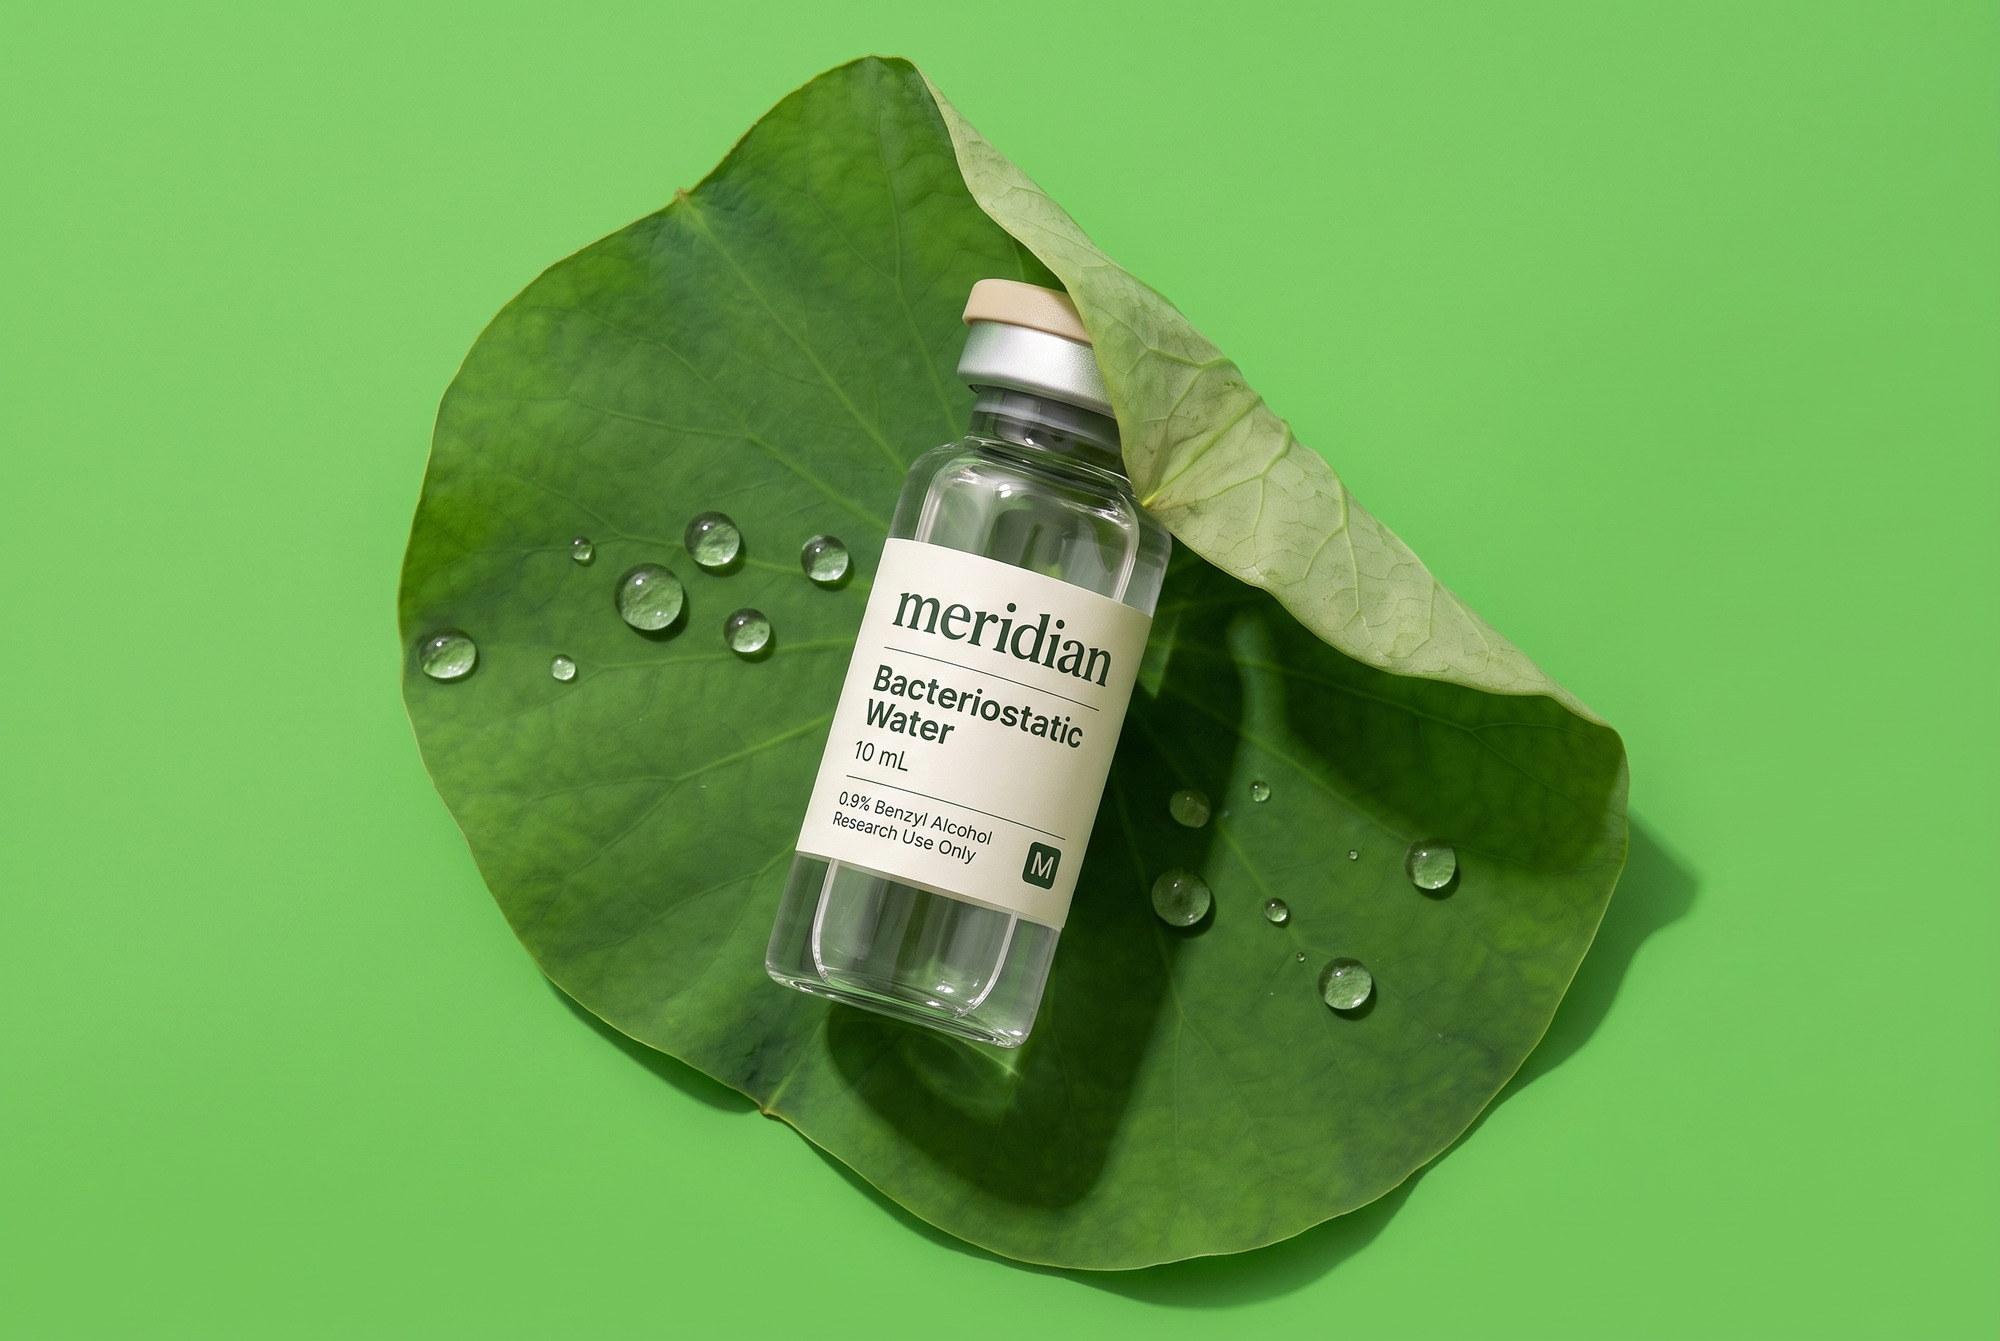
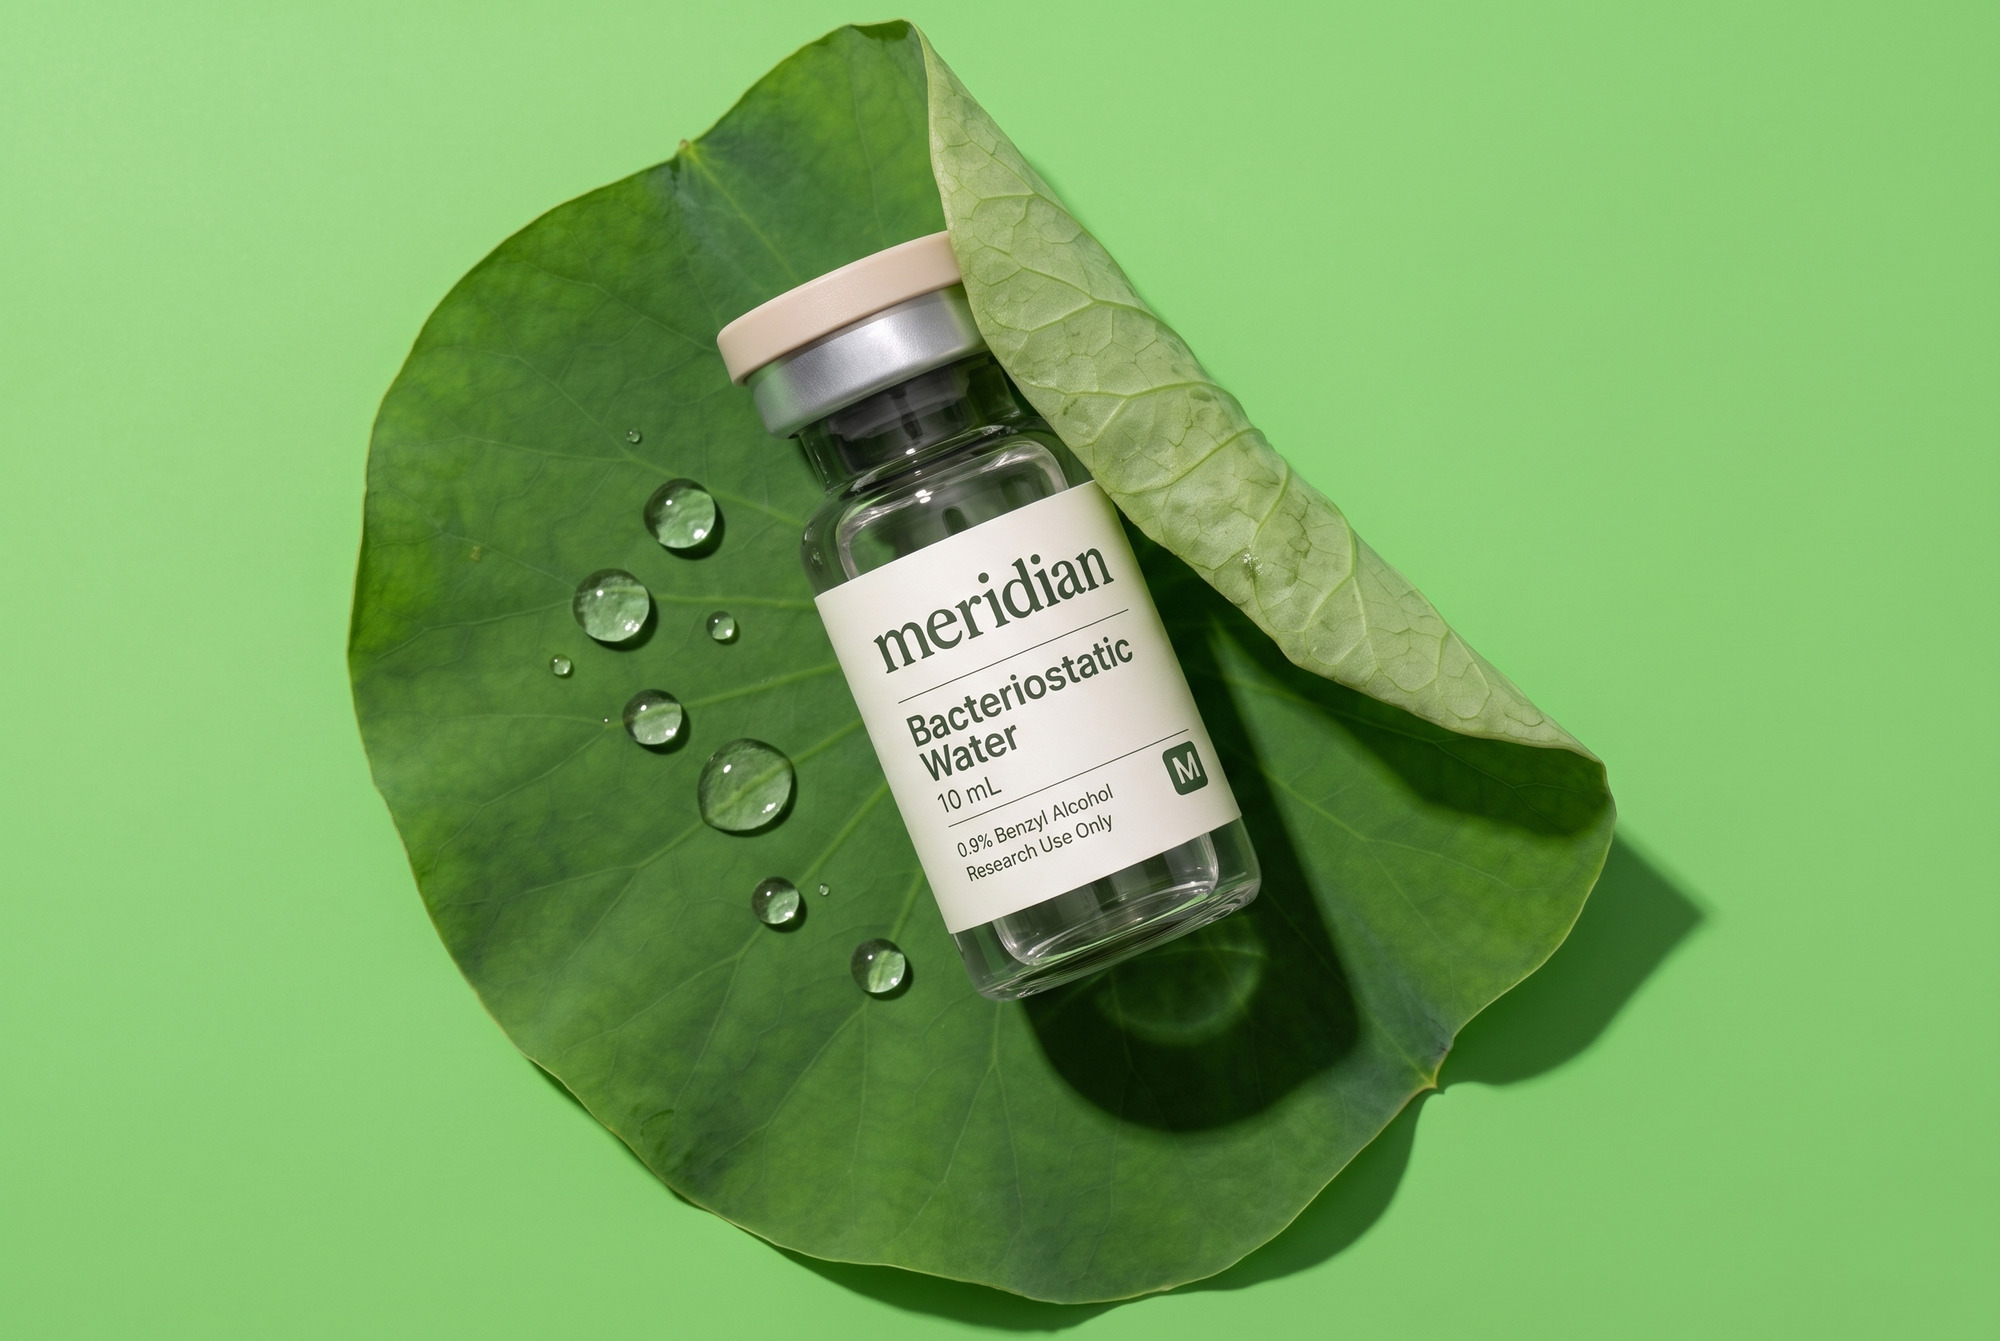
Bac water plant page re-rolled off its own vial; product-specific vials use their main as reference

diff --git a/tools/plants.py b/tools/plants.py
@@ -15,9 +15,10 @@ def one(p):
     contact=("lies on its side nestled deep into it, half surrounded: parts of it rise in front of the glass and partly hide the cap, the shoulder and the lower body, the parts beneath are pressed flat under the vial's weight, its soft shadow falls onto it and onto the green, and the parts behind it are visible refracted through the clear empty glass" if lie else
              "stands on it and sinks slightly into it: parts of it rise in front of the base of the glass, the surface beneath is compressed under the vial's weight, its soft shadow falls onto it and onto the green, and the surface is visible through the clear empty glass at the base")
     prompt=(f"A page from a modern plant book, photographed flat from above in soft daylight. The background is one perfectly flat, uniform bright green, exactly the green of the second reference cover, edge to edge, no page edges, no spiral binding, no book visible. "
-            f"{obj[0].upper()+obj[1:]} lies {p['orientation']} across the page, cut out cleanly on the green. The exact vial from the first reference {contact}. Its label is exactly the reference label design: the lowercase serif wordmark meridian in forest green, a thin rule, then {name} in bold sans, {dose} beneath it, a second rule, {p.get('line','99% Purity and Research Use Only')}, and the small green M badge in the corner; every letter of the wordmark and the name fully visible: whatever crosses the vial crosses the glass, the cap or the shoulder, never the label. {('The vial itself is '+p['vial']+'. ') if p.get('vial') else ''}One photograph of real objects touching, not a vial placed on top. Ultra sharp, no other text.")
+            f"{obj[0].upper()+obj[1:]} lies {p['orientation']} across the page, cut out cleanly on the green. The exact vial from the first reference, the same bottle with the same proportions, height and width, {contact}. Its label is exactly the reference label design: the lowercase serif wordmark meridian in forest green, a thin rule, then {name} in bold sans, {dose} beneath it, a second rule, {p.get('line','99% Purity and Research Use Only')}, and the small green M badge in the corner; every letter of the wordmark and the name fully visible: whatever crosses the vial crosses the glass, the cap or the shoulder, never the label. {('The vial itself is '+p['vial']+'. ') if p.get('vial') else ''}One photograph of real objects touching, not a vial placed on top. Ultra sharp, no other text.")
     for attempt in range(2):
-        r=subprocess.run(['higgsfield','generate','create','nano_banana_2','--image',LABEL,'--image',COVER,'--aspect_ratio','3:2','--wait','--prompt',prompt],capture_output=True,text=True,timeout=600)
+        vref=os.path.join(OUT,f"{p['slug']}-main.png") if p.get('vial') and os.path.exists(os.path.join(OUT,f"{p['slug']}-main.png")) else LABEL
+        r=subprocess.run(['higgsfield','generate','create','nano_banana_2','--image',vref,'--image',COVER,'--aspect_ratio','3:2','--wait','--prompt',prompt],capture_output=True,text=True,timeout=600)
         m=re.search(r'https://\S+\.png',r.stdout+r.stderr)
         if m:
             subprocess.run(['curl','-s','-o',out,m.group(0)],timeout=120)
